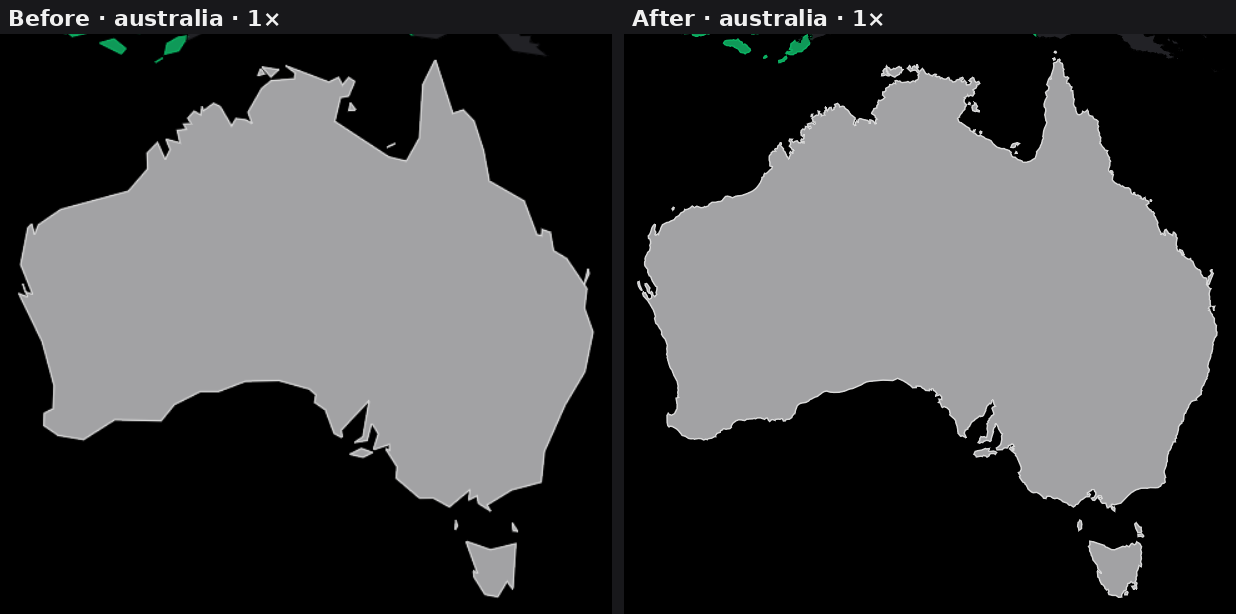
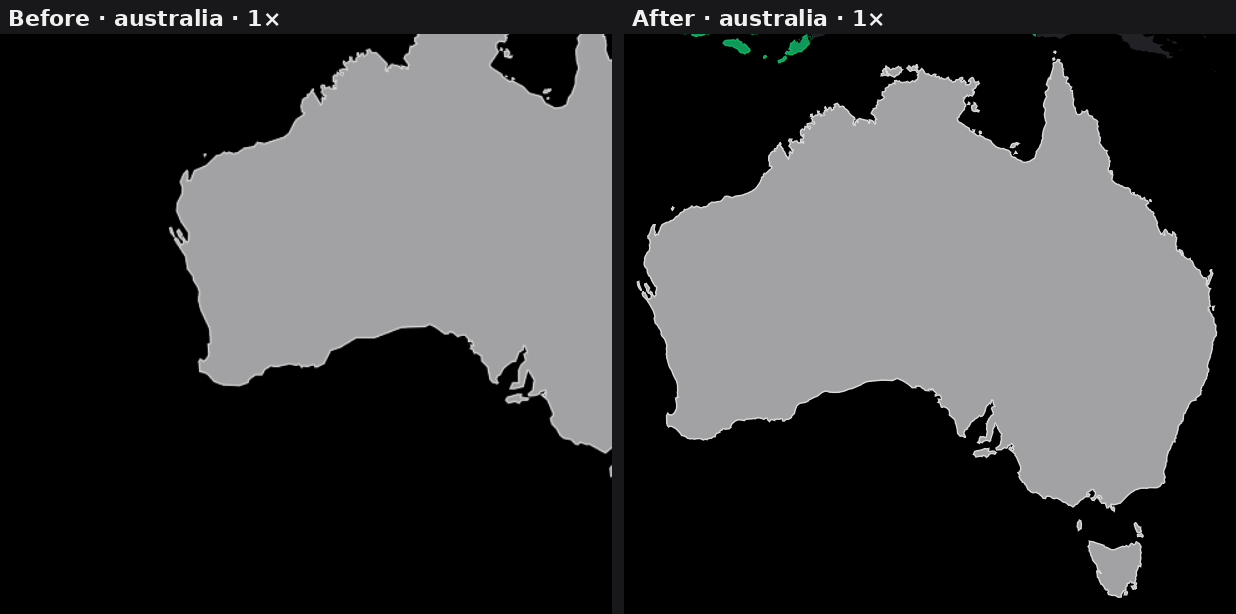
Before/after screenshots with the new home-map framing
Claude-Session: https://claude.ai/code/session_01CDpvyX1Uny65vNrPLYM7iE

diff --git a/docs/maplibre-comparison/fidelity.md b/docs/maplibre-comparison/fidelity.md
@@ -262,7 +262,7 @@ Surové výsledky: `fidelity/*.json` (pred = `before*.json`, PR #6 = `pr6*.json`
 
 ## Snímky pred a po
 
-Úvodná mapa: vľavo produkcia (`main`), vpravo náhľad tejto vetvy na Verceli, rovnaké okno. Výrezy sú v pixeloch zariadenia, zväčšené bez vyhladzovania (`tools/hero-shots.cjs`, `tools/compose-hero.py`). Snímky s obmedzeným pohybom, preto ukazujú hotové farby; zápas v úvode sa môže medzi stránkami líšiť.
+Úvodná mapa: vľavo produkcia (`main` k 28. 11., teda už s predvolenou toleranciou z #6), vpravo náhľad tejto vetvy na Verceli (presné tvary, Čukotka celá, mapa nižšie), rovnaké okno. Výrezy sú v pixeloch zariadenia, zväčšené bez vyhladzovania (`tools/hero-shots.cjs`, `tools/compose-hero.py`). Snímky s obmedzeným pohybom, preto ukazujú hotové farby; zápas v úvode sa môže medzi stránkami líšiť.
 
 | Okno | Celé | Výrezy |
 |---|---|---|
